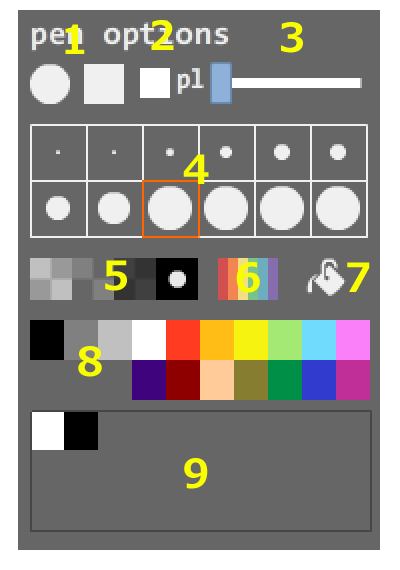
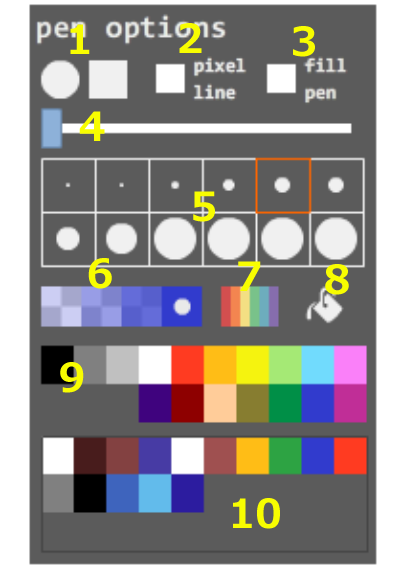
upd

diff --git a/jp.html b/jp.html
@@ -192,14 +192,15 @@
       <img src="img/penlist.png"><p></p>
       ぺんのプリセット, 手振れ補正, PixelLineがあります。この窓の空いた部分にClick+Dragすると、窓を動かすことができます。<p></p>
       [1]: ペンの形<br>
-      [2]: Pixel line ON/OFF, ONになると線の感じがするとくなります。<br>
-      [3]: 手振れ補正<br>
-      [4]: ペンサイズ<br>
-      [5]: ペン透明度<br>
-      [6]: ペン色選択<br>
-      [7]: 背景色選択<br>
-      [8]: Drawrのカラープリセット、Ctrlキーを押したままクリックすると背景色が変わります。<br>
-      [9]: カラーヒストリー, Ctrlキーを押したままクリックすると背景色が変わります。<br>
+      [2]: ピクセル線 ON/OFF, ONになると線の感じがするとくなります。<br>
+      [3]: 塗りつぶし ON/FF, ONになると自由な形で塗りつぶしができます。ショートカットキーは Ctrlです。<br>
+      [4]: 手振れ補正<br>
+      [5]: ペンサイズ<br>
+      [6]: ペン透明度<br>
+      [7]: ペン色選択<br>
+      [8]: 背景色選択<br>
+      [9]: Drawrのカラープリセット、Ctrlキーを押したままクリックすると背景色が変わります。<br>
+      [10]: カラーヒストリー, Ctrlキーを押したままクリックすると背景色が変わります。<br>
       **スポイトで選択した色はこのヒストリーに記録されません。新しい色を記録したい時はマウス右クリックをしてだくさい。<br>
 
       * 消しゴムとペン（＋直線）データは別です。<p></p>

diff --git a/kr.html b/kr.html
@@ -194,13 +194,14 @@
       펜 프리셋, 손떨림 보정, 픽셀 라인 옵션이 있습니다. 창의 빈 부분을 클릭+드래그 하면 박스를 이동 시킬 수 있습니다.<p></p>
       [1]: 펜 모양<br>
       [2]: 픽셀 라인 켜기/끄기, 켜면 날카로운 선의 느낌이 납니다.<br>
-      [3]: 손떨림 보정<br>
-      [4]: 펜 크기<br>
-      [5]: 펜 투명도<br>
-      [6]: 펜 색깔 선택 창<br>
-      [7]: 배경색 선택 창<br>
-      [8]: drawr 컬러 프리셋, 컨트롤 키를 누른 상태로 클릭을 하면 배경색이 바뀝니다.<br>
-      [9]: 컬러 히스토리, 컨트롤 키를 누른 상태로 클릭을 하면 배경색이 바뀝니다. <br>
+      [3]: 색 채우기 켜기/끄기, 켜면 색을 채우면서 그려집니다. 단축키는 컨트톨키 입니다<br>
+      [4]: 손떨림 보정<br>
+      [5]: 펜 크기<br>
+      [6]: 펜 투명도<br>
+      [7]: 펜 색깔 선택 창<br>
+      [8]: 배경색 선택 창<br>
+      [9]: drawr 컬러 프리셋, 컨트롤 키를 누른 상태로 클릭을 하면 배경색이 바뀝니다.<br>
+      [10]: 컬러 히스토리, 컨트롤 키를 누른 상태로 클릭을 하면 배경색이 바뀝니다. <br>
       **스포이드로 선택한 색깔은 히스토리에 기록되지 않습니다. 색깔을 등록해 쓰고 싶다면 마우스 오른쪽 클릭하세요.<br>
 
       * 지우개와 펜(직선)의 크기,투명도 데이터는 따로 관리합니다.<p></p>

diff --git a/en.html b/en.html
@@ -194,13 +194,14 @@
       <img src="img/penlist.png"><p></p>
       [1]: Pen shape<br>
       [2]: Pixel line ON/OFF, If it is turned ON, lines becomes little sharper..<br>
-      [3]: Pen smoothing<br>
-      [4]: Pen size<br>
-      [5]: Pen opacity<br>
-      [6]: Color picker<br>
-      [7]: Change Canvas background color<br>
-      [8]: 'Drawr' color presets, Ctrl+Click to change canvas background color.<br>
-      [9]: Color history, Ctrl+Click to change canvas background color.<br>
+      [3]: Fill Pen ON/FF, If it is turned ON, you can fill color it in any shape you like. shortcut key is Ctrl.<br>
+      [4]: Pen smoothing<br>
+      [5]: Pen size<br>
+      [6]: Pen opacity<br>
+      [7]: Color picker<br>
+      [8]: Change Canvas background color<br>
+      [9]: 'Drawr' color presets, Ctrl+Click to change canvas background color.<br>
+      [10]: Color history, Ctrl+Click to change canvas background color.<br>
       ** Colors with the eyedropper will not be recorded in color history. If you want to record a new color, right-click on history box.<br>
 
       * Eraser and pen (line) size and transparency data are managed separately.<p></p>

diff --git a/index.html b/index.html
@@ -103,7 +103,7 @@
           <a href="https://groups.google.com/forum/#!forum/fofo-paint-forum"><h4>FOFO Paint Forum</h4></a>
         </p>
         <h1>Download</h1>
-        <p><a href="https://github.com/guljam/2020FlashPaint/releases/download/setup/fofoPaint_Setup.zip"><span>Windows (ver 8.62)</span></a> <span>/ Mac (need tester)</span></p>
+        <p><a href="https://github.com/guljam/2020FlashPaint/releases/download/setup/fofoPaint_Setup.zip"><span>Windows (ver 8.63)</span></a> <span>/ Mac (need tester)</span></p>
         <p><a href="releasenote.txt">release note</a></p>
         <img src="img/appscreenshot.png" width=500>
 
